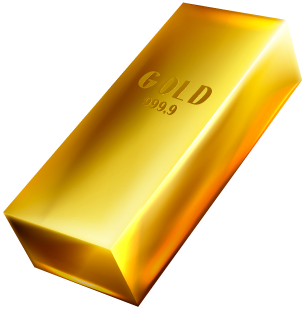
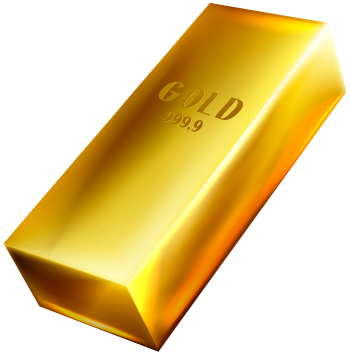
Se mejoro la imagen de inicio y se volvio a colocar el contador

diff --git a/index.html b/index.html
@@ -627,7 +627,7 @@ Thanks to blockchain, we can have the best of both worlds: digital raw material 
     <div class="faq-timeline-area section-padding-100">
         <div class="container">
             <div class="row">
-                <div class="col-12 col-lg-12 col-md-12">
+                <div class="col-12 col-lg-7 col-md-12">
                     <div class="section-heading">
                         <!-- Dream Dots -->
                         <div class="dream-dots wow fadeInUp" data-wow-delay="0.2s">
@@ -663,7 +663,7 @@ Thanks to blockchain, we can have the best of both worlds: digital raw material 
                     </div>
                 </div>
 
-                <!-- <div class="col-12 col-lg-5 offset-lg-0 col-md-8 offset-md-2 col-sm-10 offset-sm-1">
+                <div class="col-12 col-lg-5 offset-lg-0 col-md-8 offset-md-2 col-sm-10 offset-sm-1">
 
                     <div class="ico-counter">
                         <div class="counter-down">
@@ -727,7 +727,7 @@ Thanks to blockchain, we can have the best of both worlds: digital raw material 
                         </div>
                     </div>
                     
-                </div> -->
+                </div>
                 
             </div>
         </div>
